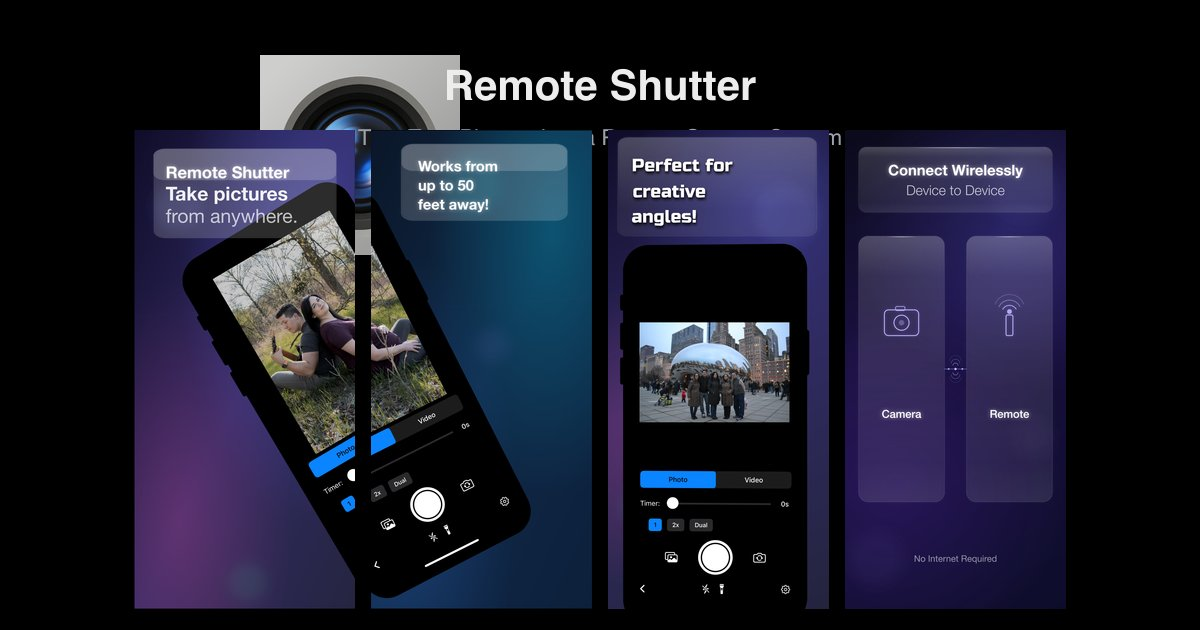
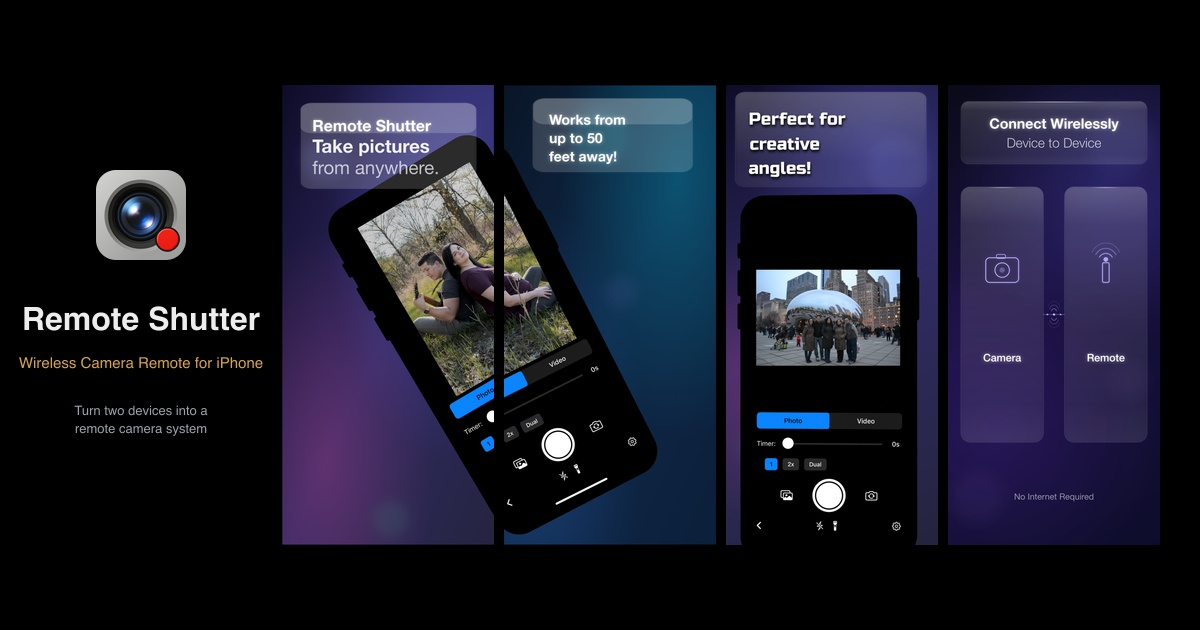
generate og image

diff --git a/website/scripts/generate-og-image.js b/website/scripts/generate-og-image.js
@@ -2,18 +2,30 @@ const sharp = require('sharp');
 const path = require('path');
 
 const PUBLIC = path.join(__dirname, '..', 'public');
+const REPO = path.join(__dirname, '..', '..');
 
 async function generate() {
   const width = 1200;
   const height = 630;
-  const iconSize = 200;
-  const screenshotHeight = 480;
-  const screenshotWidth = Math.round(screenshotHeight * (1290 / 2796));
-  const gap = 16;
 
-  // Load and resize app icon with rounded corners
-  const icon = await sharp(path.join(PUBLIC, 'app-icon.png'))
+  const iconSize = 90;
+  const screenshotHeight = 460;
+  const screenshotWidth = Math.round(screenshotHeight * (1290 / 2796)); // ~212
+  const gap = 10;
+
+  // Load app icon with rounded corners
+  const radius = Math.round(iconSize * 0.22);
+  const roundedMask = Buffer.from(
+    `<svg width="${iconSize}" height="${iconSize}">
+      <rect x="0" y="0" width="${iconSize}" height="${iconSize}" rx="${radius}" ry="${radius}" fill="white"/>
+    </svg>`
+  );
+  // Use the original 1024x1024 icon from the app assets for max quality
+  const icon = await sharp(
+    path.join(REPO, 'RemoteCam/Assets.xcassets/AppIcon.appiconset/1024.png')
+  )
     .resize(iconSize, iconSize)
+    .composite([{ input: roundedMask, blend: 'dest-in' }])
     .png()
     .toBuffer();
 
@@ -28,39 +40,49 @@ async function generate() {
   const screenshots = await Promise.all(
     screenshotFiles.map((f) =>
       sharp(path.join(PUBLIC, 'screenshots', f))
-        .resize(screenshotWidth, screenshotHeight, { fit: 'contain' })
+        .resize(screenshotWidth, screenshotHeight, { fit: 'cover' })
         .png()
         .toBuffer()
     )
   );
 
+  // Screenshots on the right
   const totalScreenshotsWidth =
     screenshots.length * screenshotWidth + (screenshots.length - 1) * gap;
-  const screenshotsStartX = Math.round((width - totalScreenshotsWidth) / 2);
-  const screenshotsY = height - screenshotHeight - 20;
+  const screenshotsStartX = width - totalScreenshotsWidth - 40;
+  const screenshotsY = Math.round((height - screenshotHeight) / 2);
 
-  // Create SVG text overlay
-  const textSvg = `<svg width="${width}" height="${height}">
-    <text x="${width / 2}" y="100" text-anchor="middle"
+  // Left panel
+  const leftCenterX = Math.round(screenshotsStartX / 2);
+
+  const textSvg = `<svg width="${screenshotsStartX}" height="${height}">
+    <text x="${leftCenterX}" y="330" text-anchor="middle"
       font-family="-apple-system, BlinkMacSystemFont, sans-serif"
-      font-size="42" font-weight="700" fill="#EDEDED">
+      font-size="32" font-weight="700" fill="#EDEDED">
       Remote Shutter
     </text>
-    <text x="${width / 2}" y="145" text-anchor="middle"
+    <text x="${leftCenterX}" y="368" text-anchor="middle"
       font-family="-apple-system, BlinkMacSystemFont, sans-serif"
-      font-size="22" fill="#9CA3AF">
-      Turn Two iPhones Into a Remote Camera System
+      font-size="15" fill="#D8A54C">
+      Wireless Camera Remote for iPhone
+    </text>
+    <text x="${leftCenterX}" y="415" text-anchor="middle"
+      font-family="-apple-system, BlinkMacSystemFont, sans-serif"
+      font-size="13" fill="#9CA3AF">
+      Turn two devices into a
+    </text>
+    <text x="${leftCenterX}" y="433" text-anchor="middle"
+      font-family="-apple-system, BlinkMacSystemFont, sans-serif"
+      font-size="13" fill="#9CA3AF">
+      remote camera system
     </text>
   </svg>`;
 
   const composites = [
-    // App icon centered at top
-    { input: icon, left: Math.round((width - iconSize) / 2) - 240, top: 55 },
-    // Text overlay
+    { input: icon, left: Math.round(leftCenterX - iconSize / 2), top: 170 },
     { input: Buffer.from(textSvg), left: 0, top: 0 },
   ];
 
-  // Add screenshots side by side
   screenshots.forEach((buf, i) => {
     composites.push({
       input: buf,
@@ -78,7 +100,7 @@ async function generate() {
     },
   })
     .composite(composites)
-    .jpeg({ quality: 85 })
+    .jpeg({ quality: 95 })
     .toFile(path.join(PUBLIC, 'og-image.jpg'));
 
   console.log('Generated og-image.jpg');
